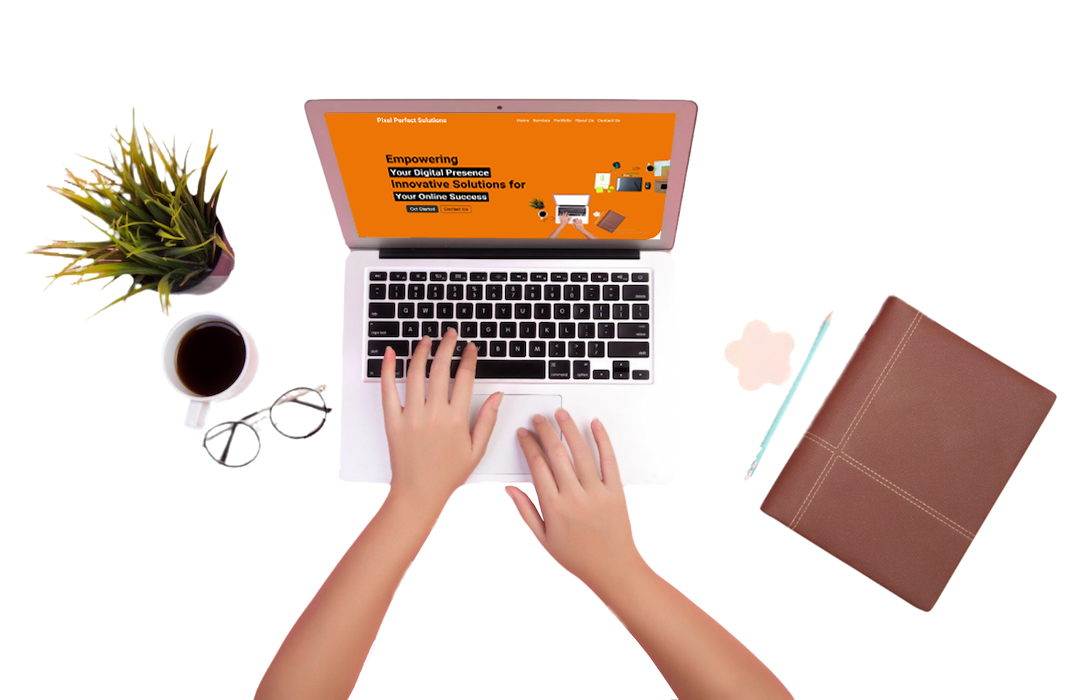
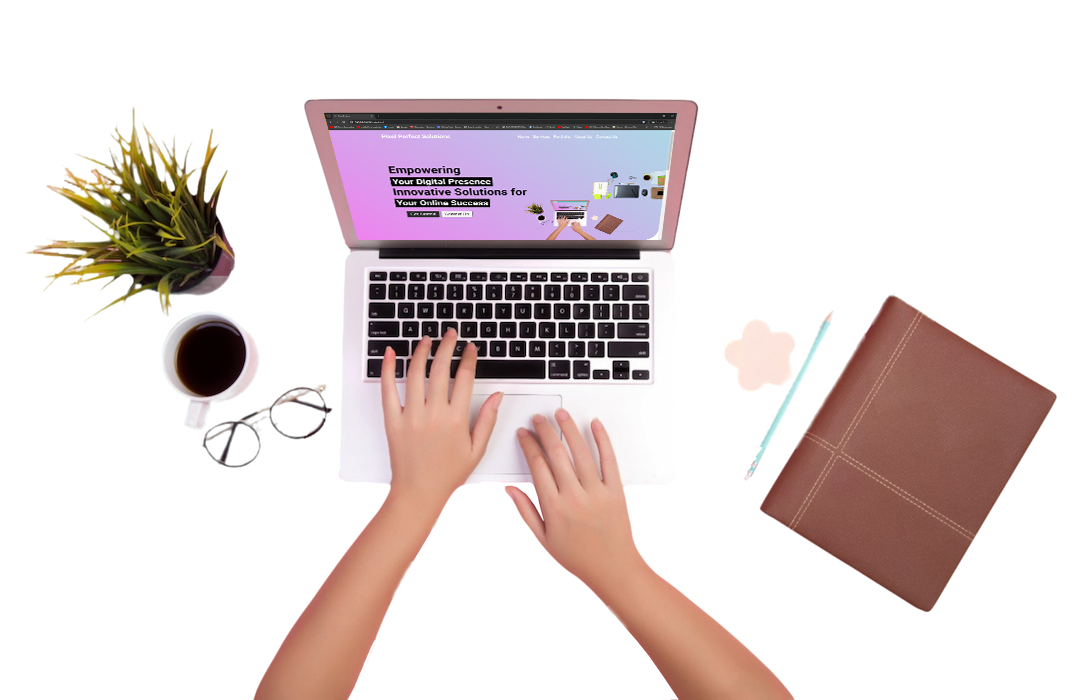
Services and Updates

Changed region(s): [[0.3073, 0.15, 0.6453, 0.36]]

diff --git a/index.html b/index.html
@@ -62,7 +62,58 @@
 
     </header>
     <div class="services">
-        
+        <div class="serviceWrapper">
+            <div class="serviceContainer">
+                <div class="box box1">
+                    <div class="serviceOffer">
+                        <h2>Web Design & Development</h2>
+                    </div>
+                    <div class="serviceDescription">
+                        <p>Our expert team specializes in creating visually stunning and user-friendly websites tailored to your brand and business goals. From custom website design to responsive development, we ensure that your online presence stands out from the competition.</p>
+                    </div>
+                    <div class="price">
+                        <h3>Starting Price: <span>$1500</span></h3>
+                    </div>
+                    <button class="check">I Want It</button>
+                </div>
+                <div class="box box2">
+                    <div class="serviceOffer">
+                        <h2>Graphic Design</h2>
+                    </div>
+                    <div class="serviceDescription">
+                        <p>Elevate your brand identity with our professional graphic design services. Whether you need a captivating logo, eye-catching marketing materials, or engaging visuals for your online presence, our talented designers will bring your vision to life with precision and creativity.</p>
+                    </div>
+                    <div class="price">
+                        <h3>Starting Price: <span>$500</span></h3>
+                    </div>
+                    <button class="check">I Want It</button>
+                </div>
+                <div class="box box3">
+                    <div class="serviceOffer">
+                        <h2>Digital Marketing</h2>
+                    </div>
+                    <div class="serviceDescription">
+                        <p>Drive traffic, leads, and conversions with our comprehensive digital marketing solutions. From search engine optimization (SEO) to social media marketing (SMM) and pay-per-click advertising (PPC), we employ data-driven strategies to maximize your online visibility and ROI.</p>
+                    </div>
+                    <div class="price">
+                        <h3>Starting Price: <span>$1000/month</span></h3>
+                    </div>
+                    <button class="check">I Want It</button>
+                </div>
+                <div class="box box4">
+                    <div class="serviceOffer">
+                        <h2>Content Creation</h2>
+                    </div>
+                    <div class="serviceDescription">
+                        <p>Engage your audience and tell your brand story effectively with our professional content creation services. Whether you need compelling website copy, informative blog posts, or captivating multimedia content, our team of writers and creators delivers quality content that resonates with your target audience.</p>
+                    </div>
+                    <div class="price">
+                        <h3>Starting Price: <span>$100 per page</span></h3>
+                    </div>
+                    <button class="check">I Want It</button>
+                </div>
+            </div>
+        </div>
     </div>
     
     <div class="portfolio">

diff --git a/styles.css b/styles.css
@@ -10,7 +10,7 @@ body{
 }
 
 header {
-    background-color: #ec7505;
+    background: linear-gradient(45deg, violet, lightblue);
     height: 100vh;
     border-bottom-right-radius: 100px;
     font-size: 25px;
@@ -103,16 +103,18 @@ header {
 .heroButtons button {
     font-size: 30px;
     padding: 10px 20px;
-    background-color: #ec7505;
+    background: ;
     border: solid 2px #2e2e2e;
     transition: all 0.3s;
     border-radius: 10px;
+    box-shadow: 0px 4px 12px rgba(0, 0, 0, 0.1);
 }
 
 .heroButtons button:hover {
     cursor: pointer;
     background-color: #2e2e2e;
     color: white    ;
+
 }
 
 #heroBtn1 {
@@ -152,7 +154,7 @@ header {
 }
 
 .off-screen-menu {
-    background-color: #ec7505;
+    background:linear-gradient(45deg, violet, lightblue) ; ;
     height: 100vh;
     width: 100%;    
     max-width: 450px;
@@ -171,7 +173,7 @@ header {
 .hamNav {
     padding: 1rem;
     display: flex;
-    background-color: #ec7505;
+    background-color: none;
     color: white;
     margin-left: 15%;
     padding: 25px;
@@ -230,4 +232,82 @@ header {
     line-height: 2;
     font-size: 50px;
     
+}
+
+
+.serviceContainer {
+    display: flex;
+    flex-wrap: wrap;
+    justify-content: center;
+    padding: 100px;
+    margin-bottom: 300px; /* Delete me later!  */
+}
+
+.box {
+    width: 600px;
+    height: 650px;
+    border-radius: 20px;
+    margin: 20px;
+    display: flex;
+    flex-direction: column;
+    align-items: center;
+    position: relative;
+    box-shadow: 0px 4px 12px rgba(0, 0, 0, 0.1);}
+
+
+.box .serviceOffer{
+    background:linear-gradient(45deg, violet, lightblue) ;
+    border-top-left-radius: 20px;
+    border-top-right-radius: 20px;
+    width: 100%;
+    text-align: center;
+    padding: 15px;
+}
+
+.box .serviceDescription {
+    width: 70%; 
+    margin-left: 10%;
+    margin: 20px 10%;
+    font-size: 30px;
+    
+}
+
+.box .price{
+    position: absolute;
+    bottom: 35px;
+    width: 100%;
+    margin-bottom: 10%;
+    text-align: center;
+
+}
+
+.box .price h3 {
+    display: flex;
+    justify-content: center;
+    align-items: center;
+}
+.box .price span{
+    font-size: 40px;
+    font-weight: bold;
+    color: green;
+    margin-left: 10px;
+}
+
+.box button{
+    position: absolute;
+    bottom: 20px;
+    font-size: 20px;
+    font-weight: bold   ;
+    color: #002137;
+    padding: 20px 30px;
+    background: linear-gradient(45deg, violet, lightblue);
+    border: none;
+    border-radius: 30px;
+    transition: all 0.3s ease;
+}
+
+.box button:hover {
+    cursor: pointer;
+    background: linear-gradient(45deg, lightblue, violet);
+    scale: 1.2;
 }
